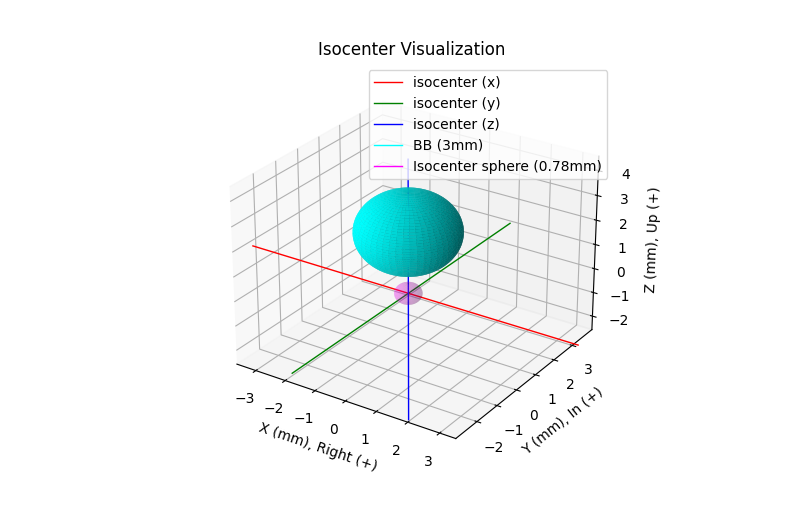
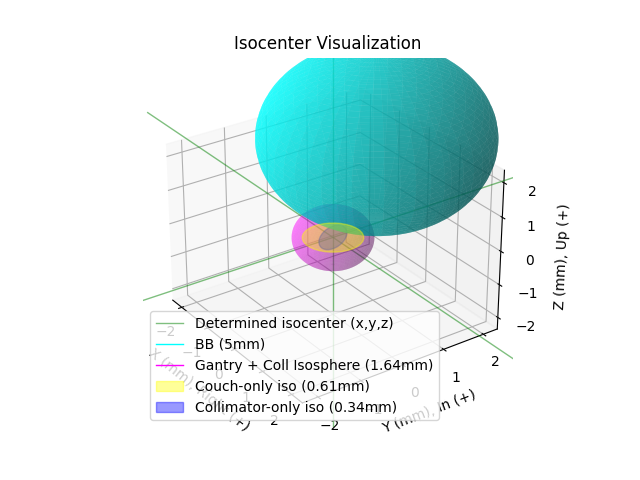
use radius

diff --git a/pylinac/winston_lutz.py b/pylinac/winston_lutz.py
@@ -1429,7 +1429,7 @@ class WinstonLutz:
         if plot_couch_iso:
             circle = plt.Circle(
                 (0, 0),
-                self.couch_iso_size,
+                radius=self.couch_iso_size / 2,
                 fill=True,
                 color="yellow",
                 alpha=0.4,
@@ -1440,7 +1440,7 @@ class WinstonLutz:
         if plot_coll_iso:
             circle = plt.Circle(
                 (0, 0),
-                self.collimator_iso_size,
+                radius=self.collimator_iso_size / 2,
                 fill=True,
                 color="blue",
                 alpha=0.4,
